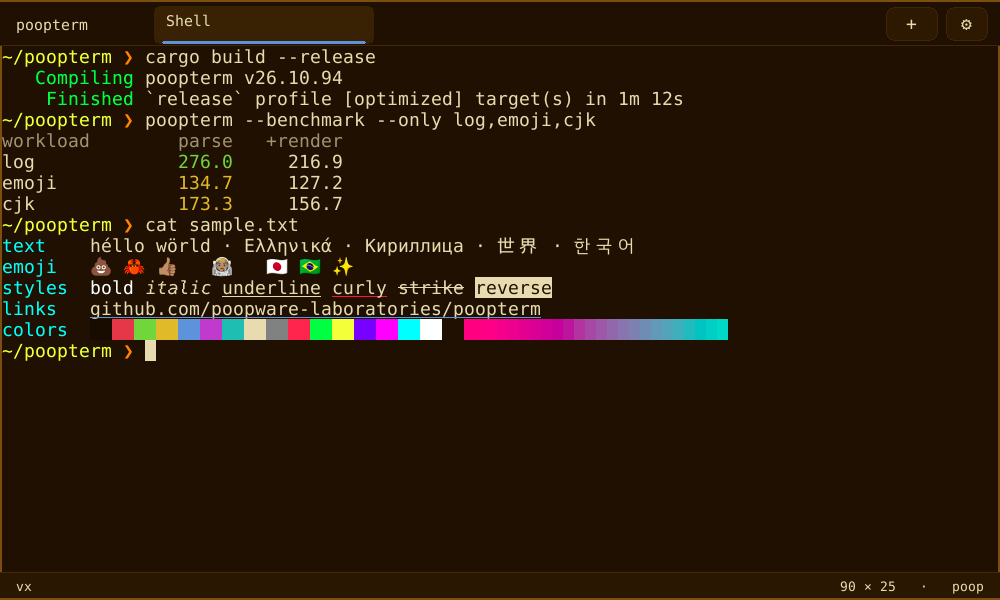
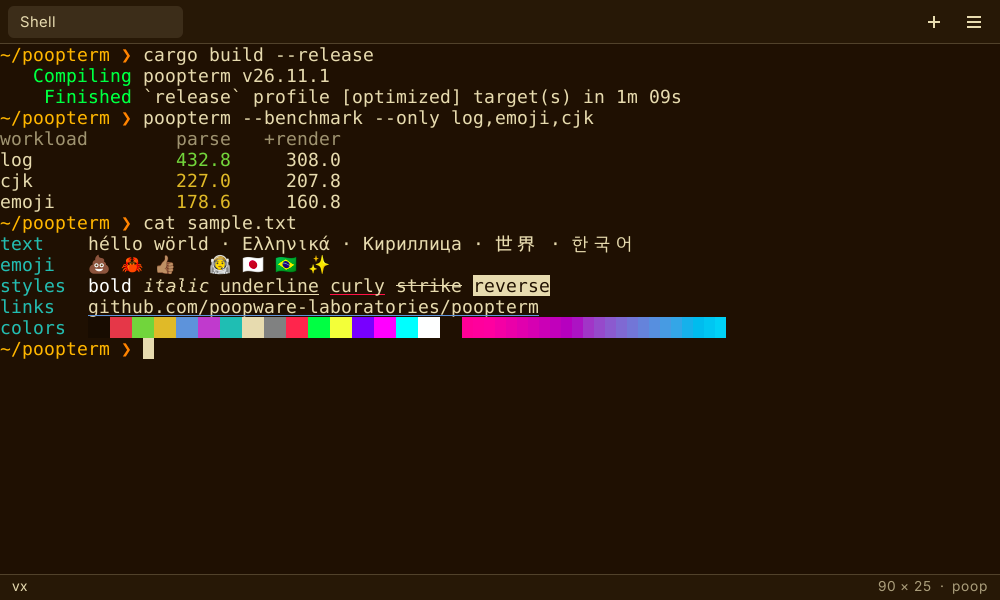
docs(readme): refresh the screenshot, throughput figures and package names
The screenshot showed the 26.10.94 tab bar, before the header and status
bar redesigns. The README's end-to-end range came from one run at d48ebd6;
the results table now also carries the 26.10.137 end-to-end medians. Package
examples named a release several versions old.

Changed region(s): [[0.0, 0.0, 1.0, 1.0], [0.496, 0.39, 0.651, 0.42]]

diff --git a/docs/performance.md b/docs/performance.md
@@ -160,28 +160,30 @@ the synchronized-output and combining-mark changes below (`d48ebd6`), then
 at 26.10.42 with our own inflate (#57), and at 26.10.93 (after the
 regression recovery, runtime CPU dispatch and the emoji work). **End to end** is
 `scripts/bench-throughput.py --mib 16 --repeat 3` in a Poopterm window of
-100×30 cells (median MB/s), measured at `d48ebd6` and not yet repeated.
+100×30 cells (median MB/s), at `d48ebd6` and again at 26.10.137 (the
+median of three alternated runs on sway, from the
+[mimalloc purge comparison](#eager-mimalloc-purging-2026-10-31)).
 
-| Workload | End to end (`d48ebd6`) | Headless (`d48ebd6`) | Headless (26.10.42) | Headless (26.10.93) |
-|----------|-----------:|---------:|---------:|---------:|
-| log (plain ASCII) | 86 | 204 | 248 | 276 |
-| compiler (colors, hyperlinks) | 77 | 122 | 153 | 188 |
-| ls --color | 86 | 143 | 182 | 223 |
-| source (highlighted) | 105 | 131 | 139 | 175 |
-| unicode (accented, Greek, Cyrillic) | 83 | 92 | 138 | 154 |
-| cjk | 86 | 102 | 154 | 173 |
-| emoji (ZWJ, combining marks) | 63 | 69 | 120 | 135 |
-| tui (sync blocks, htop-like) | 161 | 175 | 204 | 241 |
-| editor (scroll regions) | 159 | 165 | 213 | 265 |
-| progress bars | 175 | 190 | 286 | 371 |
-| truecolor half blocks | 248 | 261 | 240 | 260 |
-| cursor motion | 119 | 123 | 144 | 186 |
-| shell prompts (OSC 133/7/0/8) | 90 | 115 | 142 | 153 |
-| sixel | 72 | 76 | 149 | 152 |
-| kitty-rgba | 301 | 1021 | 1023 | 1070 |
-| kitty-png | 108 | 111 | 113 | 116 |
-| kitty-zlib | 224 | 233 | 246 | 231 |
-| **overall** | **108** | **133** | **175** | **198** |
+| Workload | End to end (`d48ebd6`) | End to end (26.10.137) | Headless (`d48ebd6`) | Headless (26.10.42) | Headless (26.10.93) |
+|----------|-----------:|-----------:|---------:|---------:|---------:|
+| log (plain ASCII) | 86 | 118 | 204 | 248 | 276 |
+| compiler (colors, hyperlinks) | 77 | 116 | 122 | 153 | 188 |
+| ls --color | 86 | 112 | 143 | 182 | 223 |
+| source (highlighted) | 105 | 129 | 131 | 139 | 175 |
+| unicode (accented, Greek, Cyrillic) | 83 | 81 | 92 | 138 | 154 |
+| cjk | 86 | 84 | 102 | 154 | 173 |
+| emoji (ZWJ, combining marks) | 63 | 75 | 69 | 120 | 135 |
+| tui (sync blocks, htop-like) | 161 | 219 | 175 | 204 | 241 |
+| editor (scroll regions) | 159 | 237 | 165 | 213 | 265 |
+| progress bars | 175 | 314 | 190 | 286 | 371 |
+| truecolor half blocks | 248 | 246 | 261 | 240 | 260 |
+| cursor motion | 119 | 179 | 123 | 144 | 186 |
+| shell prompts (OSC 133/7/0/8) | 90 | 123 | 115 | 142 | 153 |
+| sixel | 72 | 150 | 76 | 149 | 152 |
+| kitty-rgba | 301 | 375 | 1021 | 1023 | 1070 |
+| kitty-png | 108 | 111 | 111 | 113 | 116 |
+| kitty-zlib | 224 | 238 | 233 | 246 | 231 |
+| **overall** | **108** | **137** | **133** | **175** | **198** |
 
 End-to-end figures sit below headless ones where the PTY and the window
 cost more than parsing: at `d48ebd6` plain ASCII parsed at 204 MB/s but

diff --git a/README.md b/README.md
@@ -17,7 +17,7 @@
 
 ![Poopterm showing a cargo build, a benchmark table, styled text, emoji and a truecolor gradient in the Poop theme](assets/screenshot.png)
 
-Poopterm handles real-world output at 63–248 MB/s end to end (108 MB/s
+Poopterm handles real-world output at 75–375 MB/s end to end (137 MB/s
 overall, images included) on a low-power laptop CPU; see
 [performance](docs/performance.md). It runs on Linux, macOS and FreeBSD.
 Terminal compatibility is growing and is not yet a complete xterm
@@ -92,7 +92,7 @@ same profile-guided build, launcher, icons and terminfo entry. There is no
 DNF repository yet, so updates are installed the same way:
 
 ```sh
-sudo dnf install ./poopterm-26.10.93-1.x86_64.rpm
+sudo dnf install ./poopterm-26.11.0-1.x86_64.rpm
 ```
 
 </details>
@@ -131,7 +131,7 @@ Release packages carry a signed build provenance attestation, which proves
 that the release workflow built them from the tagged commit:
 
 ```sh
-gh attestation verify poopterm_26.10.93-1_amd64.deb --repo poopware-laboratories/poopterm
+gh attestation verify poopterm_26.11.0-1_amd64.deb --repo poopware-laboratories/poopterm
 ```
 
 ## Build from source
